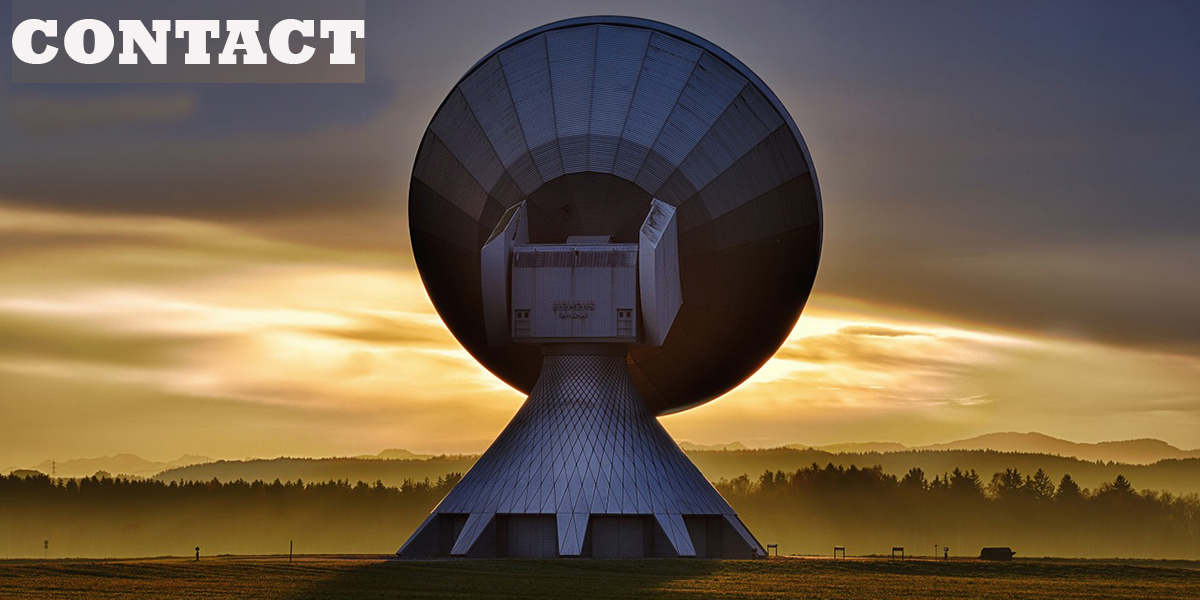
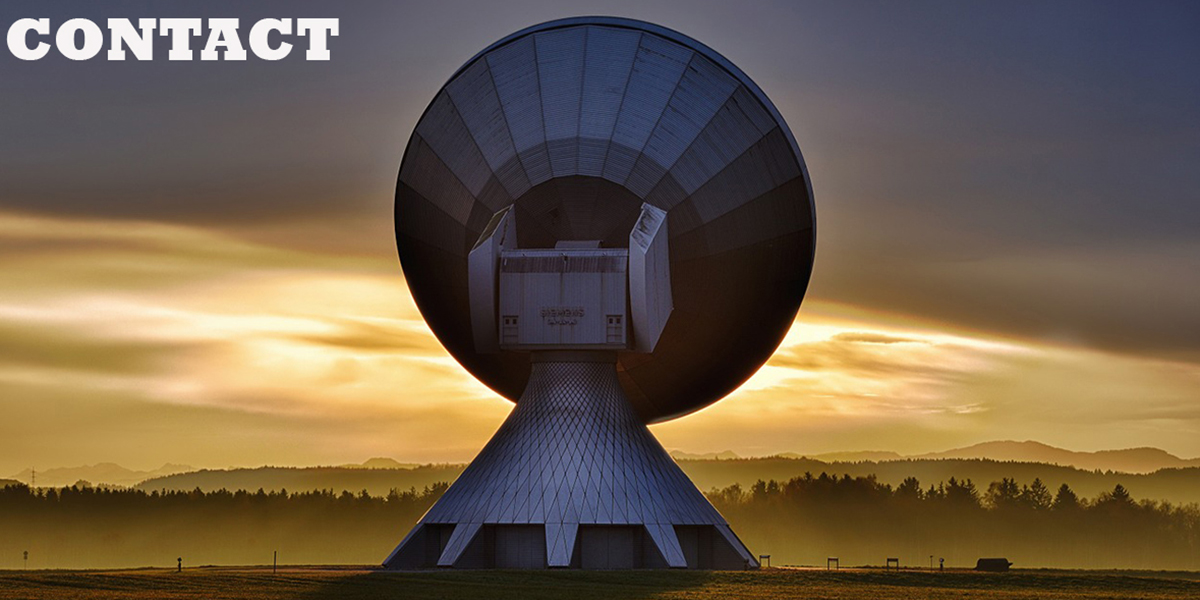
finalizering

Changed region(s): [[0.0, 0.0, 1.0, 1.0], [0.0, 0.03, 0.3083, 0.12]]

diff --git a/index.html b/index.html
@@ -76,7 +76,7 @@
   </div>
   <div class="container">
     
-      <p class="robot2">Historish overzicht van de grafische sector</p>
+      <h1>Historish overzicht van de grafische sector</h1>
       <ul class="timeline">
         <li>
           <div class="timeline-badge"><i>1980</i></div>
@@ -132,7 +132,8 @@
     <div class="card bg-light  mb-3" >
       <div class="row no-gutters">
         <div class="  col-md-12">
-          <div class="card-header  h2 ">Digitaal breekt volledig door!
+          <div class="card-header">
+            <h1>Digitaal breekt volledig door!</h1>
           </div>
 
           <div class="card-body">
@@ -334,6 +335,7 @@
             Heb je reeds een website en is die dringend aan een update toe, dan ben je bij ons op het juiste adres!
             Wij passen de site waar nodig aan zonder verdere verplichtingen
           </p>
+          <a class="btn btn-outline-primary text-white qs" role="button" href="#responsive">Meer</a>
         </div>
       </div>
     </div>
@@ -384,7 +386,7 @@
           <p>
             Wij helpen je tijd besparen bij het klaarmaken van de teksten voor het internet.<br>
             Via een doorgedreven conversie zetten wij je teksten in een oogopslag om naar bruikbare tekst op een
-            internetpagina. Neem contact met ons op en laat die vervelende taak aan onze over!
+            internetpagina. Neem contact met ons op en laat die vervelende taak aan ons over!
           </p>
         </div>
       </div>
@@ -437,7 +439,7 @@
               voortbestaan! <br>
 
             </p>
-            <a class="btn btn-info text-white" role="button" href="http://ikvergeetjeniet.be">Meer</a>
+            <a class="btn btn-outline-warning text-white qs" role="button" href="http://ikvergeetjeniet.be">Meer</a>
 
           </div>
        
@@ -482,9 +484,9 @@
     </div>
   </div>
 
+  <div   id="responsive" class="pt-5"></div>
 
-
-  <div id="responsive" class="container mt-5">
+  <div  class="container mt-5">
     <div class="row">
       <div class="col-md-12 responsive2 text-center pt-3">
         <div
@@ -493,9 +495,9 @@
 
           <h2>Responsive webdesign</h2>
           <p>
-            Anno 2019 zijn er nog veel websites die niet goed werken op tablets en smartphones.
-            Als je online strategie serieus neemt dan is responsive webdesign de eerste stap in de ontwikkeling van
-            een nieuwe website. <br>
+           Vandaag zijn er nog veel websites die niet responsive zijn.
+            Als je online strategie serieus neemt dan is responsive webdesign heel belangrijk in de ontwikkeling van
+            een website. <br>
             Bij een goed doordacht ontwerp zul je als resultaat hebben dat je meer bezoekers krijgt en dat deze langer
             op de website blijven, danwel overgaan tot actie.
             Een professionele website die met de tijd meegaat zorgt daarnaast ook voor imago verbetering.</p>
@@ -516,7 +518,7 @@
         <table class="tab2">
           <tr>
             <td class="align-middle center-block">
-              <img src="img/web.jpg" class="responsive">
+              <img src="img/web2.jpg" class="responsive">
             </td>
           </tr>
         </table>

diff --git a/css/style.css b/css/style.css
@@ -63,6 +63,12 @@ body {
   line-height: 1.70;
   color: #5f5e5e; }
 
+.qs {
+  font-family: 'Quicksand', sans-serif;
+  font-size: 90%;
+  font-weight: 504;
+  line-height: 1.70; }
+
 .container {
   max-width: 95vw;
   margin: auto; }
@@ -261,12 +267,13 @@ a.custom-card:hover {
 
 .logo {
   font-family: 'Archivo Black', sans-serif;
-  font-size: 14vw;
-  max-width: 80vw;
-  max-height: 80vh;
+  font-size: 10em;
+  max-width: 90vw;
+  max-height: 82vh;
   background: rgba(0, 0, 0, 0.25);
   margin: 50px auto;
-  color: white; }
+  color: white;
+  font-weight: 900; }
   .logo .name {
     font-family: 'Archivo Black', sans-serif;
     font-size: 7vw;

diff --git a/scss/_main.scss b/scss/_main.scss
@@ -128,12 +128,13 @@ a.custom-card:hover {
 }
 .logo{
     font-family: 'Archivo Black', sans-serif;
-    font-size: 14vw;
-    max-width: 80vw;
-    max-height: 80vh;
+    font-size: 10em;
+    max-width: 90vw;
+    max-height: 82vh;
     background: rgba(0,0,0 ,.25);
     margin: 50px auto;
     color: white;
+    font-weight: 900;
     
     .name{
         font-family: 'Archivo Black', sans-serif;

diff --git a/scss/_typography.scss b/scss/_typography.scss
@@ -9,6 +9,17 @@ body {
     color:  rgb(95, 94, 94);
 }
 
+
+.qs {
+    font-family:  'Quicksand', sans-serif;
+    font-size: 90%;
+    font-weight: 504;
+    line-height: 1.70;
+   
+}
+
+
+
 .container{
     max-width: 95vw;
     margin: auto;
